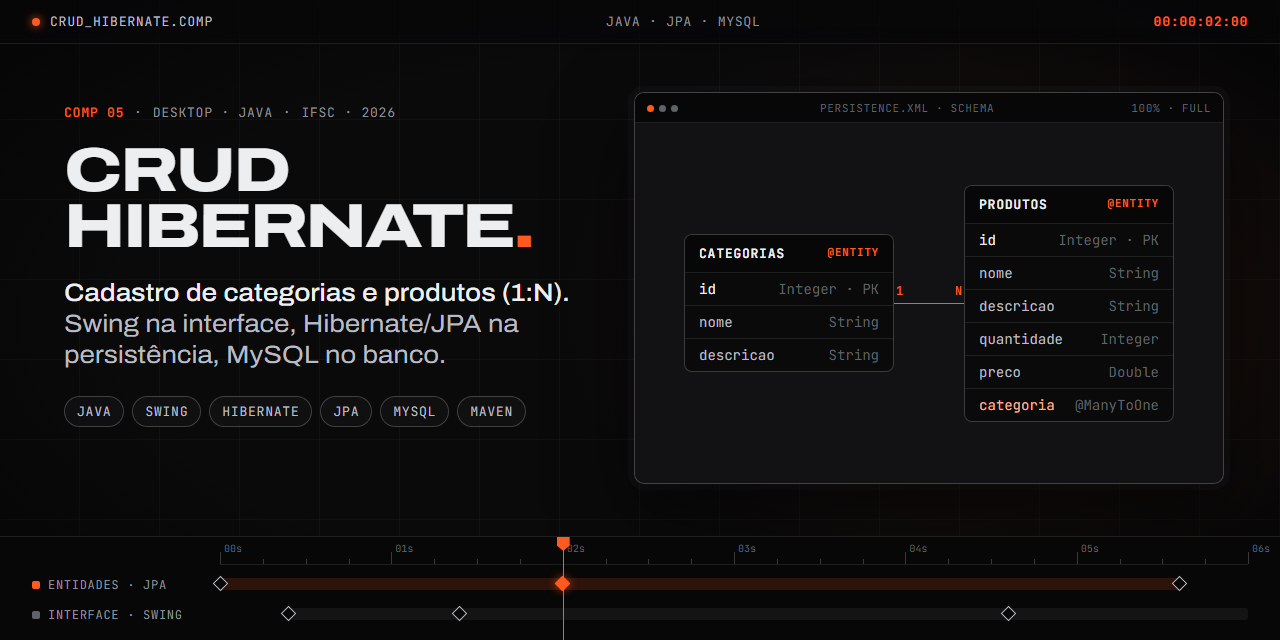
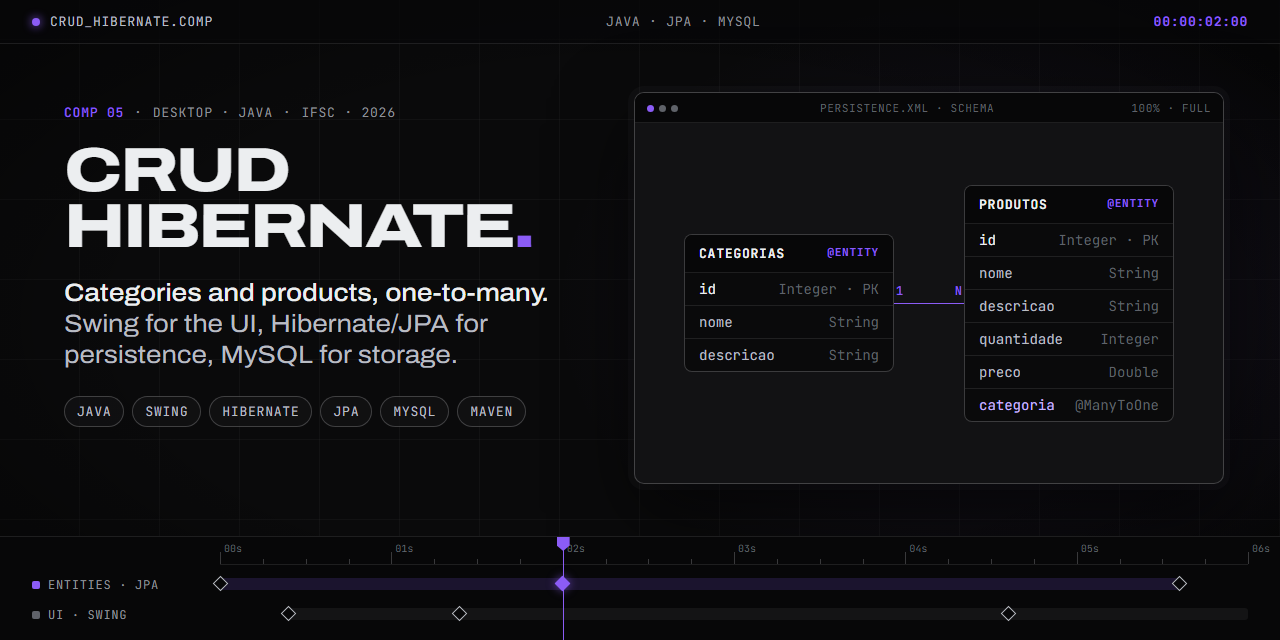
Make English the default README, add pt-BR version and violet cover
README.md is now in English with a language switcher at the top;
the Portuguese text moved to README.pt-BR.md. The cover image uses the
new violet accent and English copy.

diff --git a/README.md b/README.md
@@ -1,16 +1,24 @@
-<img src=".github/cover.png" width="100%" alt="CrudHibernate: cadastro de categorias e produtos (1:N) em Java Swing, Hibernate/JPA e MySQL. Diagrama das tabelas categorias e produtos.">
+<div align="center">
 
-# Cadastro em Duas Tabelas — Swing + Hibernate (MySQL)
+**English** · [Português (Brasil)](README.pt-BR.md)
 
-**Autores:** Kaio Felipe Homem e Jefferson Machado
-**Disciplina:** Desenvolvimento de Sistemas Orientados a Objetos — CC3 — 2026/1
+</div>
+
+<img src=".github/cover.png" width="100%" alt="CrudHibernate: categories and products (one-to-many) in Java Swing, Hibernate/JPA and MySQL. Diagram of the categorias and produtos tables.">
+
+# Two-Table CRUD — Swing + Hibernate (MySQL)
+
+**Authors:** Kaio Felipe Homem and Jefferson Machado
+**Course:** Object-Oriented Systems Development — CC3 — 2026/1 (IFSC)
 **Professor:** Edinilson da Silva Vida
 
-Aplicação desktop em Java que cadastra **Categorias** e **Produtos** relacionados (1:N).
-Ao selecionar uma categoria, a tabela de produtos mostra apenas os produtos vinculados a ela.
-Também há um `JComboBox` para escolher a categoria ao salvar/alterar um produto.
+A Java desktop application that manages **Categories** and their related **Products** (one-to-many).
+Selecting a category filters the products table to the items linked to it.
+A `JComboBox` lets you pick the category when saving or editing a product.
 
-## Estrutura
+<sub>Class names, UI labels and the database schema are in Portuguese (`Categoria`, `Produto`).</sub>
+
+## Structure
 
 ```
 CrudHibernate/
@@ -26,24 +34,24 @@ CrudHibernate/
     └── resources/META-INF/persistence.xml
 ```
 
-## Como executar
+## Running it
 
-1. Tenha o **MySQL** rodando. Ajuste usuário/senha em `src/main/resources/META-INF/persistence.xml`
-   (padrão: usuário `root`, senha `root`). O banco `crudhibernate` é criado automaticamente.
-2. Pela linha de comando, dentro da pasta `CrudHibernate/`:
+1. Have **MySQL** running. Set the user and password in `src/main/resources/META-INF/persistence.xml`
+   (default: user `root`, password `root`). The `crudhibernate` database is created automatically.
+2. From the command line, inside the `CrudHibernate/` folder:
    ```
    mvn clean compile
    mvn exec:java
    ```
-3. Ou abra como projeto Maven no **NetBeans** e rode a classe `Main`.
+3. Or open it as a Maven project in **NetBeans** and run the `Main` class.
 
-> O Hibernate está com `hbm2ddl.auto=update`, então cria as tabelas sozinho.
-> Se preferir criar o banco manualmente, rode o `script_banco.sql` e troque para `none`.
+> Hibernate runs with `hbm2ddl.auto=update`, so it creates the tables by itself.
+> If you prefer to create the database by hand, run `script_banco.sql` and switch it to `none`.
 
-## Funcionalidades
+## Features
 
-- CRUD completo de Categorias e Produtos (salvar, alterar, excluir, listar).
-- Relacionamento `@ManyToOne` (Produto → Categoria) via Hibernate/JPA.
-- Filtro de produtos por categoria (tabela e combobox).
-- Validação: não permite salvar produto sem categoria.
-- Métodos de limpeza separados para cada formulário.
+- Full CRUD for Categories and Products (save, edit, delete, list).
+- `@ManyToOne` relationship (Product → Category) through Hibernate/JPA.
+- Products filtered by category (table and combo box).
+- Validation: a product cannot be saved without a category.
+- Separate clear methods for each form.

diff --git a/README.pt-BR.md b/README.pt-BR.md
@@ -1,0 +1,55 @@
+<div align="center">
+
+[English](README.md) · **Português (Brasil)**
+
+</div>
+
+<img src=".github/cover.png" width="100%" alt="CrudHibernate: cadastro de categorias e produtos (1:N) em Java Swing, Hibernate/JPA e MySQL. Diagrama das tabelas categorias e produtos.">
+
+# Cadastro em Duas Tabelas — Swing + Hibernate (MySQL)
+
+**Autores:** Kaio Felipe Homem e Jefferson Machado
+**Disciplina:** Desenvolvimento de Sistemas Orientados a Objetos — CC3 — 2026/1
+**Professor:** Edinilson da Silva Vida
+
+Aplicação desktop em Java que cadastra **Categorias** e **Produtos** relacionados (1:N).
+Ao selecionar uma categoria, a tabela de produtos mostra apenas os produtos vinculados a ela.
+Também há um `JComboBox` para escolher a categoria ao salvar/alterar um produto.
+
+## Estrutura
+
+```
+CrudHibernate/
+├── pom.xml
+├── script_banco.sql
+└── src/main/
+    ├── java/br/edu/ifsc/crudhibernate/
+    │   ├── Main.java
+    │   ├── model/   → Categoria.java, Produto.java
+    │   ├── dao/     → CategoriaDAO.java, ProdutoDAO.java
+    │   ├── util/    → JPAUtil.java
+    │   └── view/    → FrmCategoriaProduto.java
+    └── resources/META-INF/persistence.xml
+```
+
+## Como executar
+
+1. Tenha o **MySQL** rodando. Ajuste usuário/senha em `src/main/resources/META-INF/persistence.xml`
+   (padrão: usuário `root`, senha `root`). O banco `crudhibernate` é criado automaticamente.
+2. Pela linha de comando, dentro da pasta `CrudHibernate/`:
+   ```
+   mvn clean compile
+   mvn exec:java
+   ```
+3. Ou abra como projeto Maven no **NetBeans** e rode a classe `Main`.
+
+> O Hibernate está com `hbm2ddl.auto=update`, então cria as tabelas sozinho.
+> Se preferir criar o banco manualmente, rode o `script_banco.sql` e troque para `none`.
+
+## Funcionalidades
+
+- CRUD completo de Categorias e Produtos (salvar, alterar, excluir, listar).
+- Relacionamento `@ManyToOne` (Produto → Categoria) via Hibernate/JPA.
+- Filtro de produtos por categoria (tabela e combobox).
+- Validação: não permite salvar produto sem categoria.
+- Métodos de limpeza separados para cada formulário.
